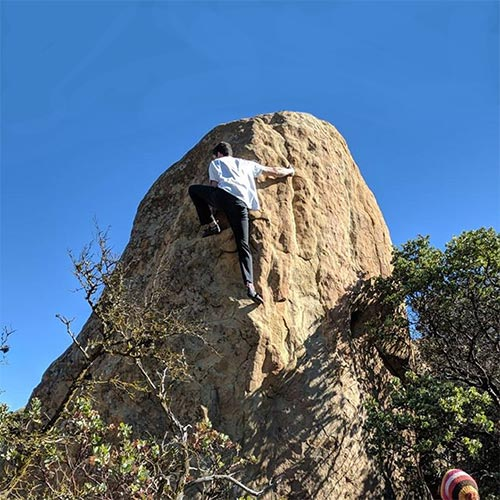
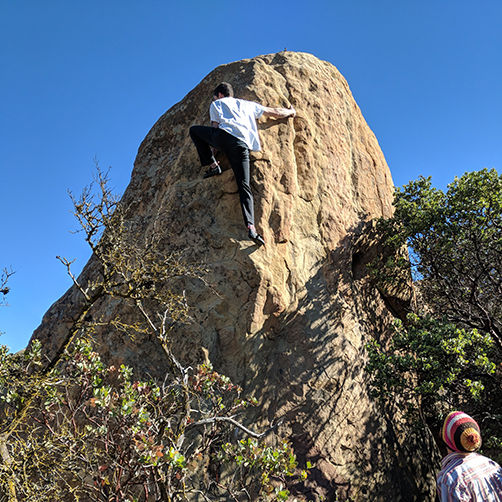
change profile image and add navigation button functions

diff --git a/script.js b/script.js
@@ -9,32 +9,104 @@ $(document).ready(function() {
     var edu = $('#edu');
     var work = $('#work');
     var contact = $('#contact');
+    var aboutB = $('#about-b');
+    var eduB = $('#edu-b');
+    var workB = $('#work-b');
+    var contactB = $('#contact-b');
 
     // functions
     function showAbout() {
         about.delay(delay).fadeIn(fadeIn);
     }
-    function closeAbout() {
+    function hideAbout() {
         about.fadeOut(fadeOut);
     }
     function showEdu() {
         edu.delay(delay).fadeIn(fadeIn);
     }
-    function closeEdu() {
+    function hideEdu() {
         edu.fadeOut(fadeOut);
     }
     function showWork() {
         work.delay(delay).fadeIn(fadeIn);
     }
-    function closeWork() {
+    function hideWork() {
         work.fadeOut(fadeOut);
     }
     function showContact() {
         contact.delay(delay).fadeIn(fadeIn);
     }
-    function closeContact() {
+    function hideContact() {
         contact.fadeOut(fadeOut);
     }
 
     // events
+    aboutB.click(function() {
+        switch(view) {
+            case 0:
+                return;
+            case 1:
+                hideEdu();
+                break;
+            case 2:
+                hideWork();
+                break;
+            case 3:
+                hideContact();
+                break;
+        }
+        showAbout();
+        view = 0;
+    });
+    eduB.click(function() {
+        switch(view) {
+            case 0:
+                hideAbout();
+                break;
+            case 1:
+                return;
+            case 2:
+                hideWork();
+                break;
+            case 3:
+                hideContact();
+                break;
+        }
+        showEdu();
+        view = 1;
+    });
+    workB.click(function() {
+        switch(view) {
+            case 0:
+                hideAbout()
+                break;
+            case 1:
+                hideEdu();
+                break;
+            case 2:
+                return;
+            case 3:
+                hideContact();
+                break;
+        }
+        showWork();
+        view = 2;
+    });
+    contactB.click(function() {
+        switch(view) {
+            case 0:
+                hideAbout();
+                break;
+            case 1:
+                hideEdu();
+                break;
+            case 2:
+                hideWork();
+                break;
+            case 3:
+                return;
+        }
+        showContact();
+        view = 3;
+    });
 });
